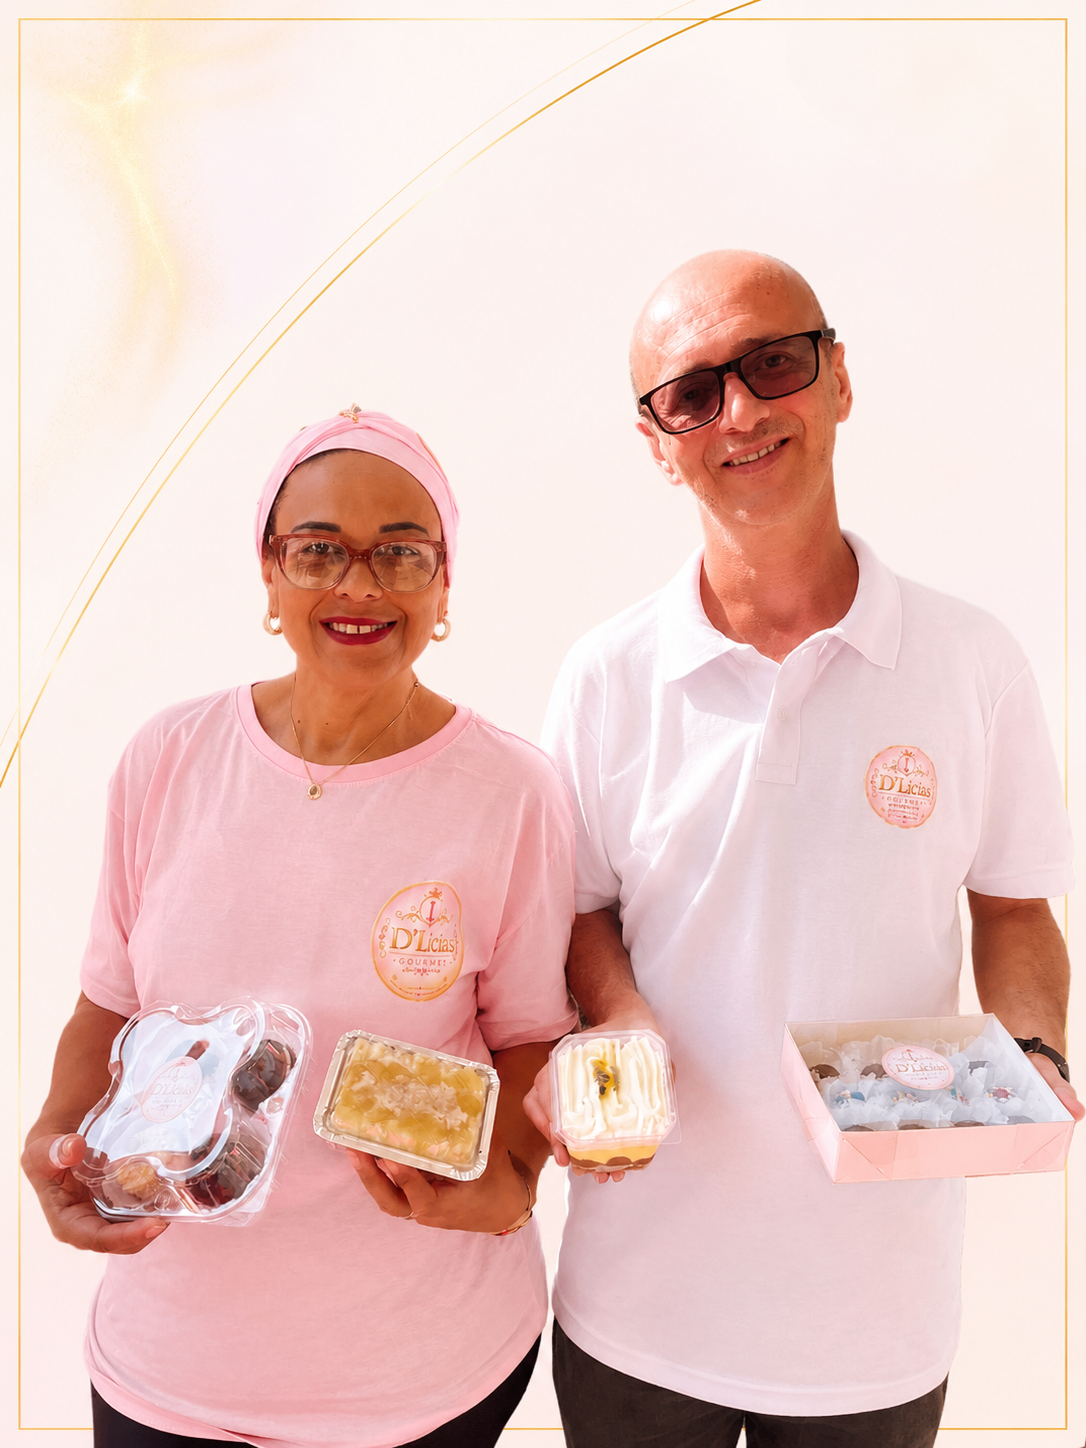
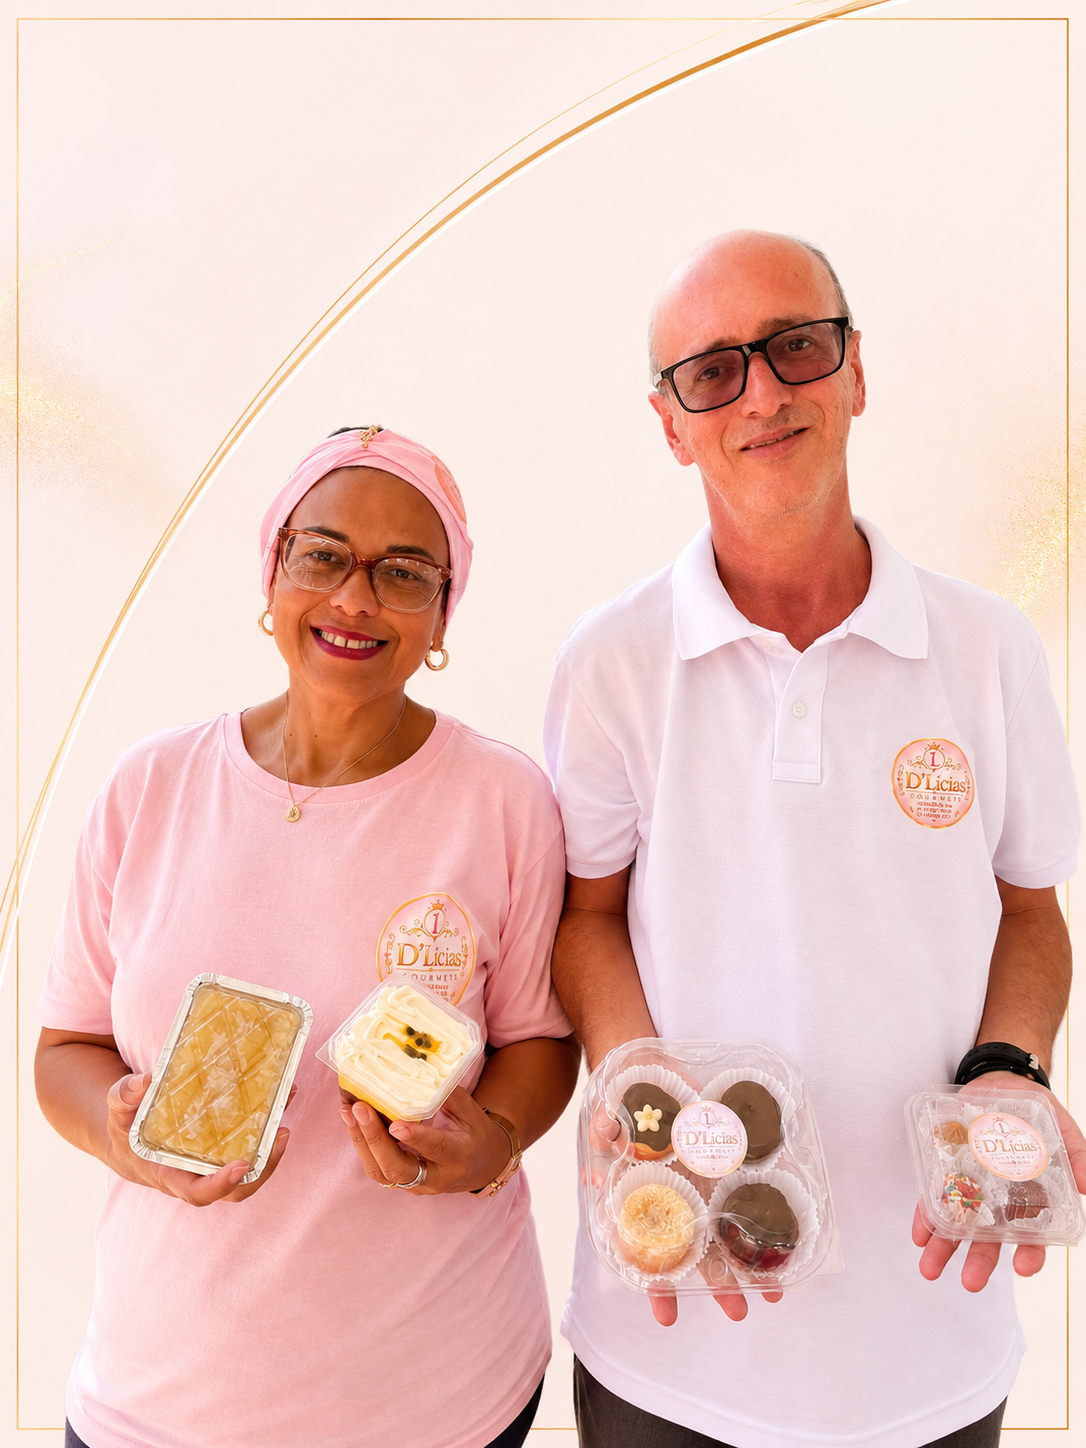
Atualiza fotos dos fundadores e amplia o slide para 3 imagens
- Substitui as fotos da secao Sobre pelas novas enviadas
- Adiciona a terceira foto (sobre-3) ao slider, com o ponto correspondente
- Usa a foto de uniforme no topo do site e no compartilhamento (og:image)
- Reenquadra a imagem do topo para focar os rostos

diff --git a/index.html b/index.html
@@ -14,7 +14,7 @@
   <meta property="og:type" content="website">
   <meta property="og:title" content="D'Licias Gourmet — Doces e Salgados Gourmet">
   <meta property="og:description" content="Salgados congelados gourmet, bentô cake, caseirinhos e doces artesanais em Divinópolis/MG. Encomende pelo WhatsApp.">
-  <meta property="og:image" content="assets/img/sobre-1.png">
+  <meta property="og:image" content="assets/img/sobre-3.png">
   <meta property="og:locale" content="pt_BR">
 
   <link rel="icon" type="image/png" href="assets/img/logo.png">
@@ -133,7 +133,7 @@
 
         <div class="hero__visual reveal" data-delay="2">
           <div class="hero__frame">
-            <img src="assets/img/sobre-1.png" alt="Casal fundador da D'Licias Gourmet segurando os produtos"
+            <img src="assets/img/sobre-3.png" alt="Casal fundador da D'Licias Gourmet"
                  class="hero__img" loading="eager"
                  onerror="this.closest('.hero__frame').classList.add('is-empty')">
             <div class="hero__placeholder" aria-hidden="true">
@@ -184,11 +184,15 @@
             <div class="slider__viewport">
 
               <figure class="slider__slide is-active">
-                <img src="assets/img/sobre-1.png" alt="Fundadores da D'Licias Gourmet apresentando os produtos artesanais" loading="lazy">
+                <img src="assets/img/sobre-1.png" alt="Fundadores da D'Licias Gourmet apresentando bolo gelado, torta no pote e brigadeiros" loading="lazy">
               </figure>
 
               <figure class="slider__slide">
-                <img src="assets/img/sobre-2.png" alt="Fundadores da D'Licias Gourmet" loading="lazy">
+                <img src="assets/img/sobre-2.png" alt="Fundadores da D'Licias Gourmet com uma caixa de doces personalizados" loading="lazy">
+              </figure>
+
+              <figure class="slider__slide">
+                <img src="assets/img/sobre-3.png" alt="Fundadores da D'Licias Gourmet de uniforme" loading="lazy">
               </figure>
 
             </div>
@@ -203,6 +207,7 @@
             <div class="slider__dots" role="tablist" aria-label="Escolher foto">
               <button class="slider__dot is-active" role="tab" aria-selected="true"  aria-label="Foto 1"></button>
               <button class="slider__dot"           role="tab" aria-selected="false" aria-label="Foto 2"></button>
+              <button class="slider__dot"           role="tab" aria-selected="false" aria-label="Foto 3"></button>
             </div>
           </div>
 

diff --git a/css/sections.css b/css/sections.css
@@ -114,8 +114,8 @@
   width: 100%;
   height: 100%;
   object-fit: cover;
-  /* Enquadra o casal e os produtos, cortando o excesso de fundo do topo */
-  object-position: center 62%;
+  /* Enquadra os rostos, cortando o excesso de fundo do topo */
+  object-position: center 30%;
 }
 
 .hero__frame::after {

diff --git a/README.md b/README.md
@@ -27,8 +27,9 @@ dlicias-gourmet/
 │   └── main.js             → comportamento (menu, filtros, slider, links)
 └── assets/
     ├── img/
-    │   ├── sobre-1.png     → foto usada no topo e no slide
-    │   ├── sobre-2.png     → segunda foto do slide
+    │   ├── sobre-1.png     → 1ª foto do slide (com os produtos)
+    │   ├── sobre-2.png     → 2ª foto do slide (caixa de doces)
+    │   ├── sobre-3.png     → 3ª foto do slide E foto do topo do site
     │   ├── personalizado.png → foto da seção "Datas especiais"
     │   ├── logo.svg        → logo provisória (trocar por logo.png)
     │   └── produtos/       → fotos dos produtos (já instaladas)
